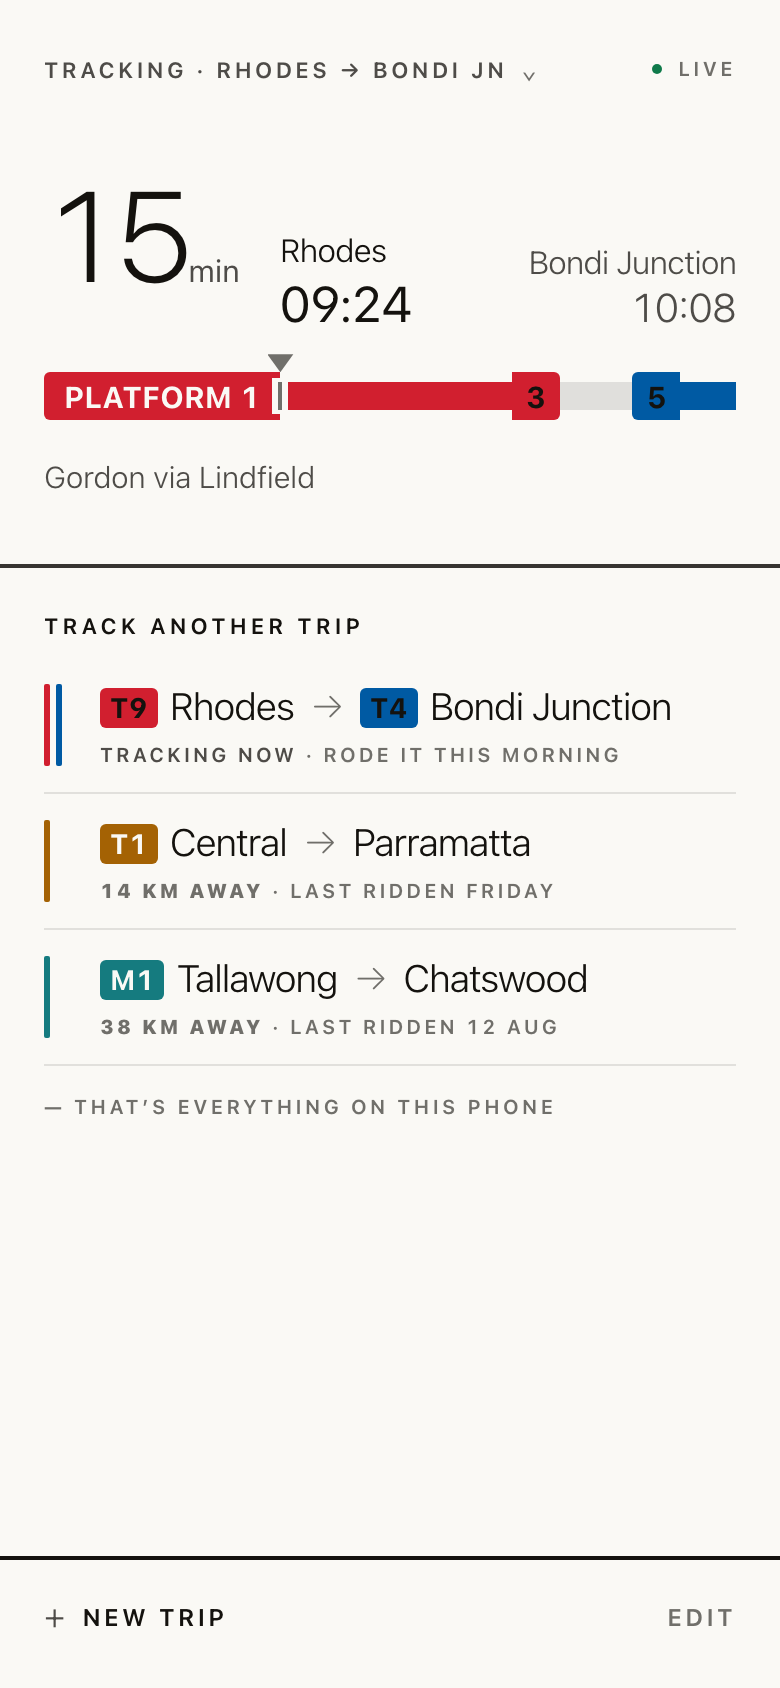
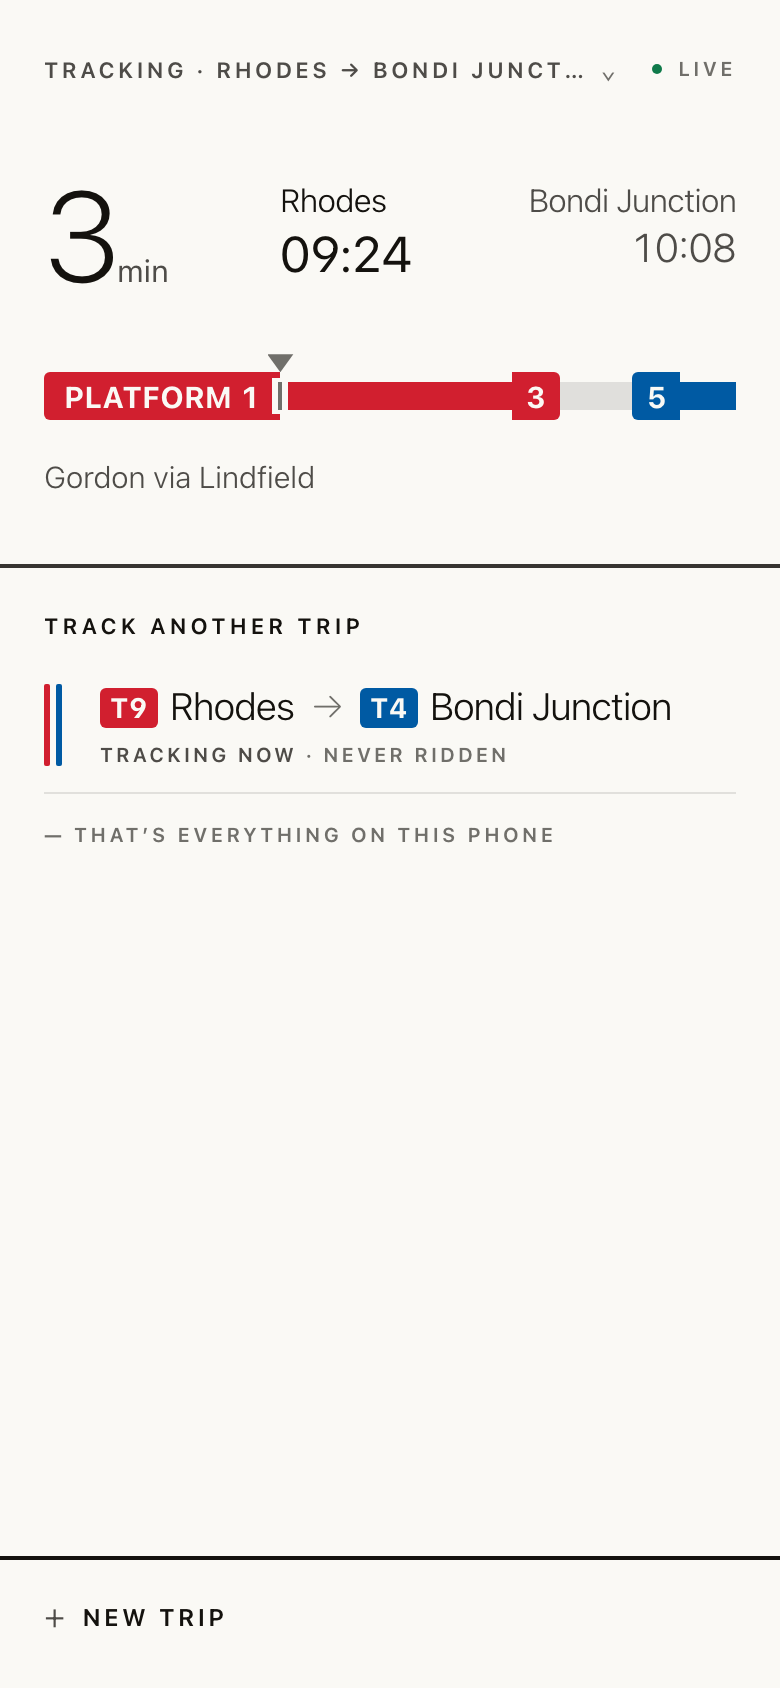
ui.md: chip numerals are paper in light, and two exemplars catch up
Owner ruling 2026-09-02: "white numbers look better on the light mode." The
shipped rule is right and stays — ink on the light T4 blue is 2.66:1 against
the contract's own 3:1 bar for text on a fill, paper is 6.66:1 — so the two
light exemplars that still show ink are replaced with shots of the fixed
client (tools/shoot-states.js, light sweep at 390x844: board-focused for the
board hero, home-before for home). The contract states the rule for both
schemes, and theme.test.js measures it.

diff --git a/web/test/theme.test.js b/web/test/theme.test.js
@@ -114,6 +114,22 @@ test('every line badge is readable as text in the scheme it is printed in', () =
   }
 });
 
+/* Owner ruling 2026-09-02, written into ui.md: numerals on a line-colour chip
+   are paper in the light scheme, on every line. Ink on the light T4 blue is
+   2.66:1 and fails the contract's own 3:1 bar for text on a fill. */
+test('light-scheme chip numerals are paper, and paper clears 3:1 on every line', () => {
+  assert.match(css, /@media\s*\(prefers-color-scheme:\s*light\)\s*\{\s*\.sy-cap,\s*\.sy-bar\s+\.sy-p,\s*\.hm-bdg\s*\{\s*color:\s*var\(--bg\)\s*!important/);
+
+  const paper = rgb(light['--bg'], [0, 0, 0]);
+  for (const code of Object.keys(COLOURS)) {
+    const fill = rgb(light['--line-' + code], paper);
+    const [hi, lo] = [luminance(paper), luminance(fill)].sort((a, b) => b - a);
+    const measured = (hi + 0.05) / (lo + 0.05);
+    assert.ok(measured >= 3,
+      `paper on the light --line-${code} is ${measured.toFixed(2)}:1, wanted >= 3`);
+  }
+});
+
 /* js/lines.js maps the API's badge code to a custom property; if the two lists
    drift, a real line silently paints in the fallback ink instead of its own
    colour, which no screenshot of Central → Parramatta would ever show. */

diff --git a/docs/contracts/ui.md b/docs/contracts/ui.md
@@ -202,7 +202,12 @@ generate theirs from the same values); new line codes must update every
 client's mapping and its tests in the same change. Filled
 line-colour devices are permitted; text on a fill is at least 14px/700 and
 meets 3:1 contrast. Line colour used as text must use the scheme-specific
-readable mapping.
+readable mapping. Platform numerals on a line-colour chip — the boarding cap,
+the transfer platform markers and the saved-trip line badges — are paper in
+the light scheme, on every line: paper reads better than ink on all fourteen
+light-scheme line colours and is the only value that clears 3:1 on T4 and HUN.
+The dark scheme knocks them out per line colour, where ink is the readable
+value on T4, T5, T9, CCN and HUN and paper is on the rest.
 
 ## Calibration and verification
 
